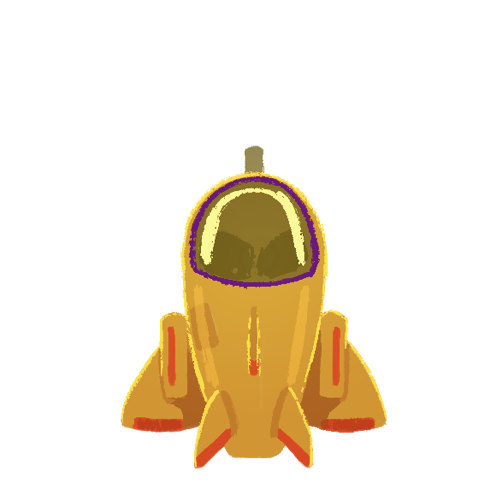
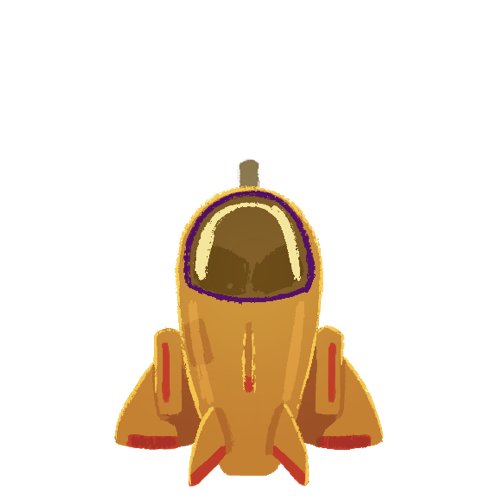
Added character splash art to game, made crystal magnetism a little nicer

Changed region(s): [[0.21, 0.27, 0.78, 0.99]]

diff --git a/menus.js b/menus.js
@@ -11,12 +11,18 @@ var printClock = 0;   // Counts frames since last switched character, used for d
 // Assets
 let fontWhiteRabbit;
 let spriteNyxWireframe, spriteYasminWireframe, spriteHopperSkippWireframe;
+let spriteNyxPortrait, spriteYasminPortrait, spriteHopperSkippPortrait;
 
 function loadMenuAssets(){
     fontWhiteRabbit = loadFont('assets/whitrabt.ttf');
+
     spriteNyxWireframe = loadImage('assets/NyxShipWireframe.png');
     spriteYasminWireframe = loadImage('assets/YasminShipWireframe.png');
     spriteHopperSkippWireframe = loadImage('assets/HopperSkippShipWireframe.png');
+
+    spriteNyxPortrait = loadImage('assets/NyxPortrait.png');
+    spriteYasminPortrait = loadImage('assets/YasminPortrait.png');
+    spriteHopperSkippPortrait = loadImage('assets/Hopper_And_SkippPortrait.png');
 }
 
 
@@ -142,8 +148,7 @@ function drawCharacterSelect(){
 
     image(spriteHopperSkippWireframe, 425, 650, 440, 290);
 
-    fill(150, 230, 80);
-    circle(1200, 450, 300);
+    image(spriteHopperSkippPortrait, 1150, 410, 1032, 800);
 
     translate(1600, 0);
 
@@ -163,8 +168,7 @@ function drawCharacterSelect(){
 
     image(spriteNyxWireframe, 425, 650, 440, 306);
 
-    fill(200, 50, 250);
-    circle(1200, 450, 300);
+    image(spriteNyxPortrait, 1200, 410, 800, 800);
 
 
     translate(1600, 0);
@@ -185,8 +189,7 @@ function drawCharacterSelect(){
 
     image(spriteYasminWireframe, 425, 650, 480, 270);
 
-    fill(170, 80, 50);
-    circle(1200, 450, 300);
+    image(spriteYasminPortrait, 1200, 410, 800, 800);
 
 
     pop();

diff --git a/crystal.js b/crystal.js
@@ -29,8 +29,8 @@ class Crystal {
             }
             
             var vecToPlayer = p5.Vector.sub(closestVec, this.position);
-            if (this.position.dist(closestVec) < 40 && this.age > 1000) {
-                vecToPlayer.setMag(1200);
+            if (this.position.dist(closestVec) < 50 && this.age > 1000) {
+                vecToPlayer.setMag((50-this.position.dist(closestVec))*40 + 500);
                 this.velocity.lerp(vecToPlayer, deltaTime * 0.001 * 3.0);
             }
 

diff --git a/sketch.js b/sketch.js
@@ -22,7 +22,7 @@
 //    + data syncing for gameplay
 //    + Character interactions
 // - Final artworks
-//    - Character Splashes
+//    + Character Splashes
 //    - Asteroids
 //    - Enemies
 //    - Debris
